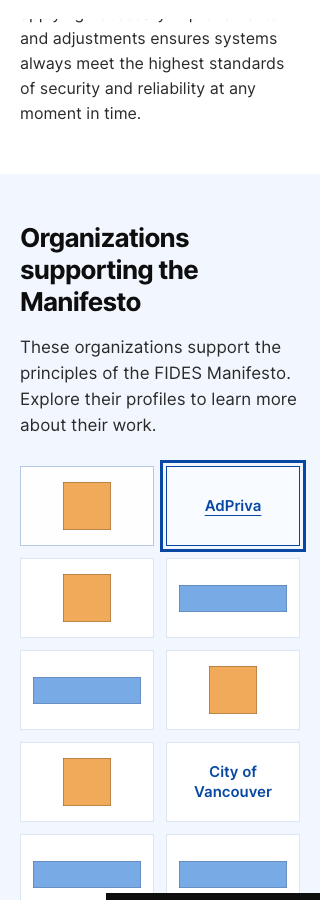
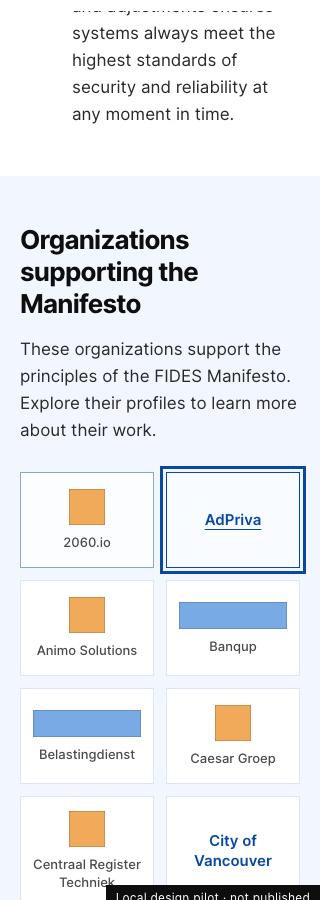
Pilot: Manifesto repair round tests, README and screenshots (1440/1100/768/390/320)

diff --git a/scripts/design-pilot/tests/manifesto-behaviour.php b/scripts/design-pilot/tests/manifesto-behaviour.php
@@ -89,12 +89,12 @@ add_filter('fides_manifesto_supporter_source', static function () {
 });
 $html = Fides_DS_Manifesto::render(array('detail_url' => '/fides-design-pilot/organization/'));
 $check(substr_count($html, 'class="fides-manifesto__tile"') === 5, 'fixture tiles');
-$check(substr_count($html, '<img ') === 1 && strpos($html, 'https://example.org/logo.png') !== false, 'only a valid http logo becomes an image');
+$check(substr_count($html, 'fides-manifesto__logo"') === 1 && strpos($html, 'https://example.org/logo.png') !== false, 'only a valid http logo becomes an image');
 $check(strpos($html, 'javascript:') === false, 'unsafe logo URL is dropped');
-$check(preg_match('~<span class="fides-ds-card__fallback fides-manifesto__name" aria-hidden="true">No Logo BV</span>~', $html) === 1, 'missing logo shows a visible name tile');
-$check(preg_match('~<img[^>]*fides-manifesto__logo[^>]*alt=""[^>]*>\s*<span class="fides-ds-card__fallback fides-manifesto__name" aria-hidden="true" hidden>With Logo</span>~', $html) === 1, 'a logo comes with a hidden name tile for when it fails');
+$check(preg_match('~<span class="fides-ds-card__fallback fides-manifesto__name">No Logo BV</span></a>~', $html) === 1, 'missing logo shows one visible name tile and no caption');
+$check(preg_match('~<img[^>]*fides-manifesto__logo[^>]*alt=""[^>]*>\s*<span class="fides-ds-card__fallback fides-manifesto__name" hidden>With Logo</span><span class="fides-manifesto__caption">With Logo</span>~', $html) === 1, 'a logo comes with a caption and a hidden name tile for when it fails');
+$check(strpos($html, 'aria-hidden="true">No Logo') === false && strpos($html, 'fides-ds-visually-hidden') === false, 'the visible name is the accessible name, never duplicated');
 $check(strpos($html, 'Fish &amp; &lt;b&gt;Chips&lt;/b&gt;') !== false && strpos($html, '<b>Chips</b>') === false, 'names are escaped');
-$check(substr_count($html, 'fides-ds-visually-hidden') >= 5, 'every tile has an accessible name');
 $check(substr_count($html, 'data-org-id="') === 5, 'every tile links to a profile');
 $check(strpos($html, home_url('/fides-design-pilot/organization/?org=org%3Acredenco')) === false && strpos($html, '/fides-design-pilot/organization/?org=org%3Awith-logo') !== false, 'tiles link to the given detail page with the organization id');
 $profile = Fides_DS_Manifesto::profile_url(array('id' => 'org:credenco', 'name' => 'Credenco'), '/fides-design-pilot/organization/');
@@ -103,6 +103,23 @@ $check($plain !== '' && strpos($plain, 'credenco') !== false, 'without a detail 
 $check($profile !== '' && strpos($profile, 'credenco') !== false, 'profile link carries the organization id: ' . $profile);
 $check(strpos($profile, '/fides-design-pilot/organization/') !== false, 'profile link goes to the pilot organization detail');
 remove_all_filters('fides_manifesto_supporter_source');
+
+// ---- Our vision and the original photo.
+$html = Fides_DS_Manifesto::render();
+$vision = strpos($html, 'Our vision');
+$check($vision !== false && strpos($html, 'id="principles"') > $vision && strpos($html, 'fides-manifesto__hero') < $vision, 'Our vision sits between hero and principles');
+foreach (array('AI is changing how information is created and used.', 'Trust also depends on people’s rights, freedom of choice and clear responsibilities.', 'The FIDES Manifesto sets out seven principles for that work') as $line) {
+    $check(strpos($html, $line) !== false, 'vision copy: ' . substr($line, 0, 40));
+}
+$check(strpos($html, 'Harmen van der Kooij and Victor van der Hulst handing over the FIDES Manifesto to Barbara Kathman, Chair of the Digital Affairs committee of the Dutch Parliament</figcaption>') !== false, 'the verified original caption is used verbatim');
+$check(preg_match('~<img src="https://fides\.community/app/uploads/2025/06/manifesto-768x1024\.jpg"[^>]*width="768" height="1024"~', $html) === 1, 'the original WordPress media file with its proportions');
+$check(stripos($html, 'endorse') === false || stripos(substr($html, $vision, 2500), 'endorse') === false, 'no suggestion of formal parliamentary support near the photo');
+$check(strpos($html, 'Seven principles for designing and implementing digital solutions people can trust.') !== false, 'principles intro from Paper');
+$check(strpos($html, 'The existing form') === false, 'no visitor line about the existing form');
+add_filter('fides_manifesto_photo', '__return_empty_array');
+$html = Fides_DS_Manifesto::render();
+$check(strpos($html, 'fides-manifesto__photo"') === false && strpos($html, 'fides-manifesto__vision-grid--text') !== false && strpos($html, 'Our vision') !== false, 'without a photo the vision text stays');
+remove_all_filters('fides_manifesto_photo');
 
 // ---- Empty data: the heading stays, no tiles, a quiet notice.
 add_filter('fides_manifesto_supporter_source', '__return_empty_array');
@@ -120,7 +137,7 @@ $check(substr_count($html, esc_url($sign)) === 2, 'support actions in hero and c
 $check(stripos($html, '<form') === false && stripos($html, '<input') === false && stripos($html, '<textarea') === false, 'no pretend form');
 add_filter('fides_manifesto_sign_url', static function () { return ''; }, 99);
 $html = Fides_DS_Manifesto::render();
-$check(strpos($html, 'Support the Manifesto') === false && strpos($html, 'The existing form') === false, 'no sign URL: no dead action');
+$check(strpos($html, 'Support the Manifesto') === false, 'no sign URL: no dead action');
 remove_all_filters('fides_manifesto_sign_url');
 $default = Fides_DS_Manifesto::sign_url();
 $check($default === home_url('/manifesto/#ratify-the-fides-manifesto-today'), 'default sign URL is the form anchor on the site Manifesto page');

diff --git a/scripts/design-pilot/learn/README.md b/scripts/design-pilot/learn/README.md
@@ -247,11 +247,13 @@ Order under the hero: Learn strip, theme index, latest updates.
 - Destinations go through the shell resolver: Topics & guides and Sessions & workshops and the use case overview are pilot pages; Submit a use case and Manage your organization's listing go to the pilot forms. Contact, Manifesto and Plans have no pilot page and resolve to the live fides.community paths. A destination that resolves to nothing is omitted, not linked.
 - Tests: `tests/run-about-checks.sh` (1440, 390 and 320 px; screenshots in `screens/about-*.png`).
 
-## FIDES Manifesto (Paper 27.2 / 27.3)
+## FIDES Manifesto (Paper 27.2 / 27.3 / 27.4)
 
 - Page `/fides-design-pilot/manifesto/` with `[fides_manifesto detail_url="/fides-design-pilot/organization/"]` (tiles `Fides_DS_Manifesto`, `assets/manifesto.css`, `assets/manifesto.js`); the shell path `/manifesto/` (footer, About) maps to it in the pilot guard.
+- Our vision (between hero and principles): three paragraphs from Paper 27.2 and the original handover photo, right of the text from 900 px and below it on narrower screens. The photo is the WordPress media file on fides.community (`manifesto-768x1024.jpg` with srcset, 3:4), shown whole (never cropped), with the verified original caption, worded neutrally and without any claim of formal Parliament support. Staging can point at its own copy through the `fides_manifesto_photo` filter (empty array removes the photo).
 - The seven principles keep their original titles and full texts (from fides.community/manifesto); the short texts in Paper are layout placeholders only.
-- Supporters: every organization with `fidesManifestoSupporter === true` from the organization catalog source, alphabetical, no paging. A tile shows the logo (as the organization listing resolves it), or a readable name tile when the logo is missing, fails to load, or is smaller than 32 px. Each tile links to the organization profile (`detail_url` page with `?org=`; without it the canonical organization route).
+- Supporters: every organization with `fidesManifestoSupporter === true` from the organization catalog source, alphabetical, no paging. A tile shows the logo (as the organization listing resolves it) with a modest 13px name below it, or a single readable name tile when the logo is missing, fails to load, or is smaller than 32 px. Logos are limited to 160 x 40 px (110 x 36 px below 768 px), keep their proportions and are never scaled up (`width/height:auto` plus max sizes). Each tile links to the organization profile (`detail_url` page with `?org=`; without it the canonical organization route).
 - Signing is the existing WPForms form on the live Manifesto page (`#ratify-the-fides-manifesto-today`). The pilot has no copy and collects nothing; the support actions use the `fides_manifesto_sign_url` filter (pilot guard: the live URL; default: the form anchor on the site's own Manifesto page).
+- Content-page type scale (shared classes in `design-system.css`, used by the Manifesto): section heading `.fides-ds-heading-section` 26/32 bold, item heading `.fides-ds-heading-item` 22/28 bold, running text `.fides-ds-text-body` 17/27, all in Inter. Principle numbers are 28/34 semibold in a 52px column (36px below 768 px), 24px (16px mobile) from the title. About FIDES still uses `.fides-ds-heading-2` (30/36) for its section headings; align it when the design owner decides to.
 - Comparison of the gallery with the catalog: `organization-catalog/docs/manifesto-gallery-vs-catalog.md`.
-- Tests: `tests/manifesto-behaviour.php` (in `run-tests.sh`) and `tests/run-manifesto-checks.sh` (1440, 1024, 768, 390, 320; `REAL_LOGOS=1` only for screenshots with real logos).
+- Tests: `tests/manifesto-behaviour.php` (in `run-tests.sh`) and `tests/run-manifesto-checks.sh` (1440, 1100, 768, 390, 320; `REAL_LOGOS=1` only for screenshots with real logos).
